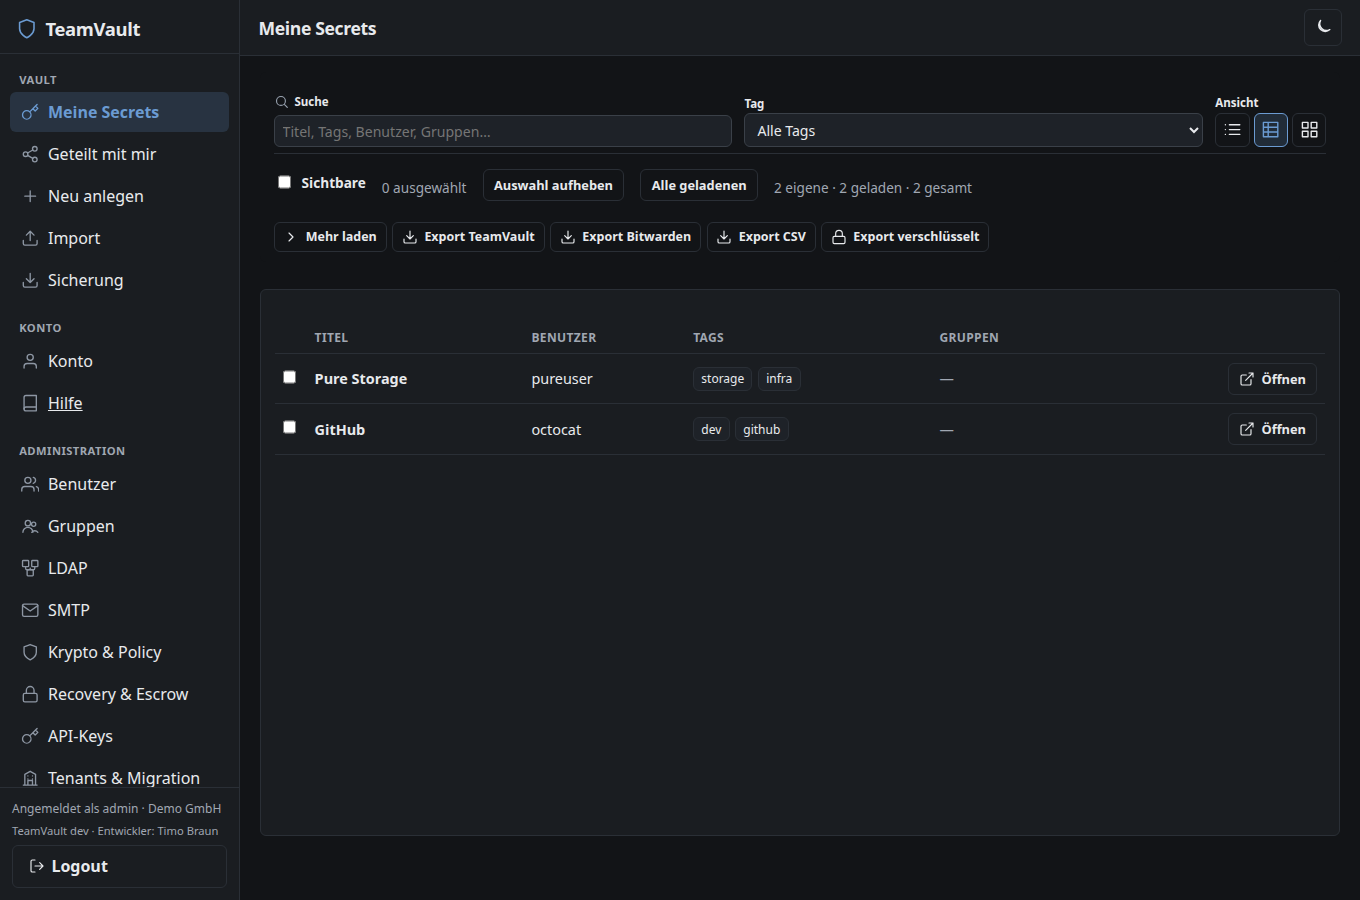
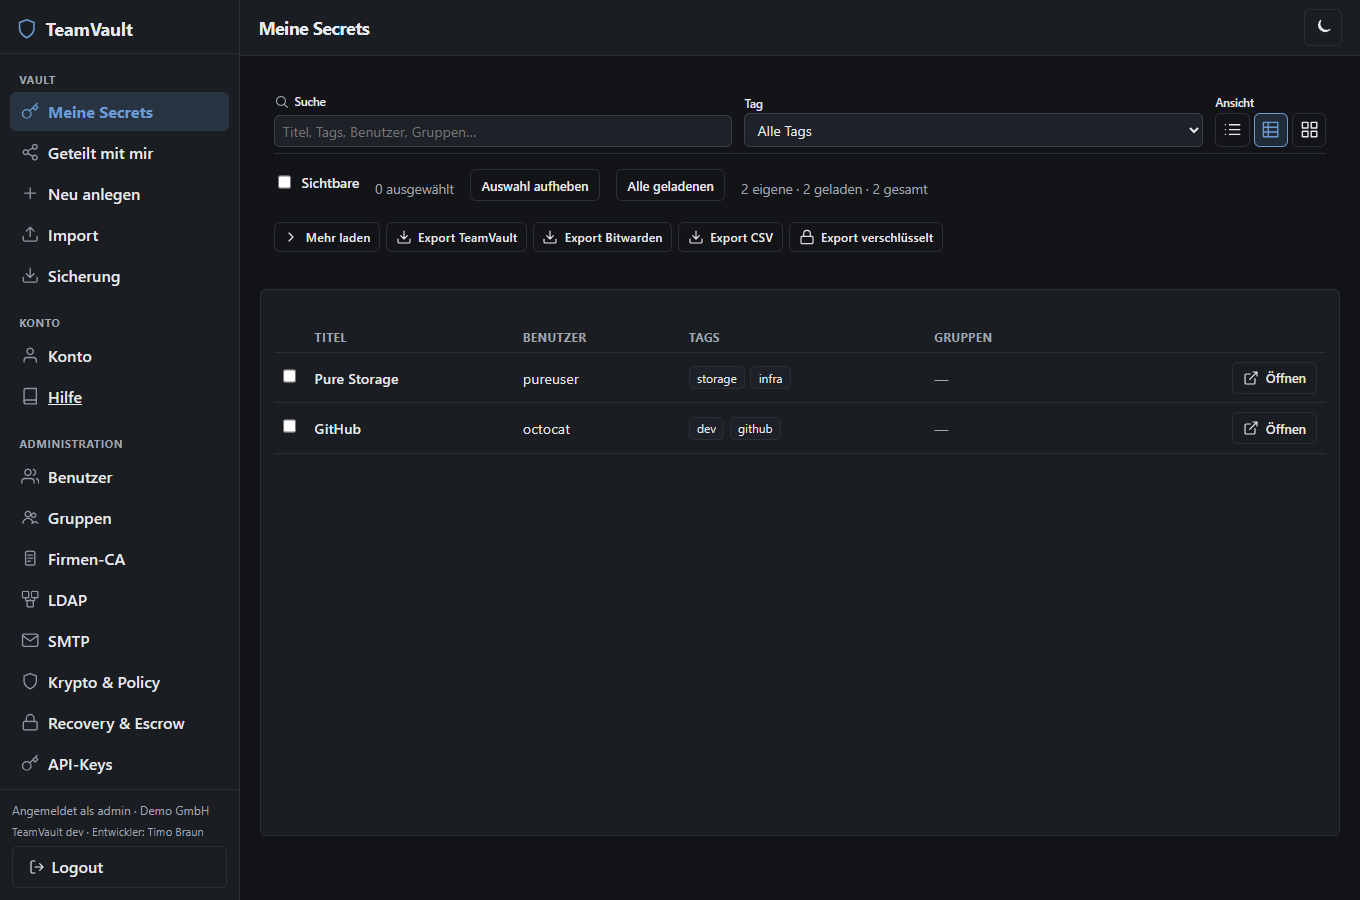
Update admin docs and screenshots for central company CA.
Document Firmen-CA, LDAP TLS, and SMTP in the admin guide and regenerate screenshots including new trust/LDAP/SMTP captures.

diff --git a/docs/admin-guide.md b/docs/admin-guide.md
@@ -154,23 +154,32 @@ Kein Zugriff auf Master-Passwort, Private Keys oder Recovery-Kit-Klartext.
 
 Sidebar **Administration → Firmen-CA**:
 
+![Firmen-CA](images/admin-trust.png)
+
 - Instanzweites Root-/Zwischen-CA-Bundle (PEM), verschlüsselt in der Config
 - Wird für **LDAPS**, **SMTP** und künftige TLS-Clients (interne Dienste) verwendet
 - Behebt `certificate signed by unknown authority` bei eigener PKI, ohne die Prüfung zu deaktivieren
+- PEM-Datei hochladen oder einfügen; **CA speichern** / **Zertifikat entfernen**
 
 ### 3.4 LDAP / AD
 
 Sidebar **Administration → LDAP**:
 
+![LDAP](images/admin-ldap.png)
+
 - Optional, **nur Login-Bind** (nie Autorisierung)
 - Felder: Host, Port, Base DN, Bind DN/Passwort, User-Filter
 - **LDAPS / TLS** (üblich Port 636). Der Hostname muss zum Zertifikat (CN/SAN) passen.
-- TLS-Vertrauen über die zentrale Firmen-CA (nicht hier hochladen)
+- TLS-Vertrauen über die zentrale Firmen-CA (nicht hier hochladen); Hinweis zeigt, ob eine CA hinterlegt ist
 - **TLS-Zertifikatsfehler ignorieren:** unsichere Notlösung, wenn keine CA hinterlegt werden kann (Hostname und Signatur werden nicht geprüft).
 - Test-Bind (nutzt die aktuellen Formularwerte, auch ungespeicherte), Speichern, LDAP-Sync (fehlende → lokal disabled)
 - Just-in-Time: erster erfolgreicher LDAP-Login legt lokalen User an (`auth_backend=ldap`)
 
 ### 3.5 SMTP
+
+Sidebar **Administration → SMTP**:
+
+![SMTP](images/admin-smtp.png)
 
 - Outbound-Mail (Einladungen/Hinweise je nach Ausbau)
 - Host, Port, From, Credentials; Test-Button
@@ -214,7 +223,7 @@ Der private Escrow-Key darf nie in Logs oder dauerhaft auf dem Server landen.
 
 - Cookie-Sessions ohne Scope-Einschränkung. **Legacy-Keys ohne Scopes** (`legacy_no_scopes` in der Key-Liste): nur **read-only** GET-Allowlist — keine Schreib- oder Admin-Aktionen. Key mit expliziten Scopes neu ausstellen und alten Key widerrufen.
 - Nach User-Disable: Secrets mit Envelope dieses Users rotieren (Hinweis + Liste `accessible-secrets` in Admin-UI; kein Auto-Rotate wegen ZK)
-- Tenant-Admins sehen standardmäßig in der Secret-Liste **Metadaten** (IDs, Title-Ciphertext) auch ohne eigenen Envelope — optional einschränkbar über Policy (siehe §3.5)
+- Tenant-Admins sehen standardmäßig in der Secret-Liste **Metadaten** (IDs, Title-Ciphertext) auch ohne eigenen Envelope — optional einschränkbar über Policy (siehe §3.6)
 
 ### 3.9 Tenants, Storage-Migration & Instanz-Backup (`platform_admin`)
 
@@ -336,3 +345,5 @@ Dokumentations-Screenshots liegen unter `docs/images/`. Neu erzeugen (Playwright
 ```
 
 Voraussetzungen: Docker, Node.js/npm. Das Skript startet temporär `go run ./cmd/teamvault` in einem Container auf Port **8099**, führt Setup/Login/Onboarding durch und überschreibt die PNGs in `docs/images/`.
+
+Ohne Docker (Windows): Dev-Server lokal auf `:8099` starten, dann `TV_URL=http://127.0.0.1:8099 TV_BROWSER_CHANNEL=msedge node scripts/capture-docs-screenshots.mjs` (falls Playwright-Chromium nicht geladen werden kann, z. B. hinter Firmenproxy).

diff --git a/README.md b/README.md
@@ -13,7 +13,7 @@ Secrets und Titel werden nur im Browser entschlüsselt — Server und Storage se
 | **Sharing** | Pro berechtigtem User eigener Datenschlüssel (asymmetrisch); Entzug mit Pflicht-Rotation |
 | **Auth** | Lokales Login immer; optional LDAP/AD nur für Bind; TOTP; Passkeys (nur Login); Self-Service Passwort-Wechsel |
 | **Onboarding** | Erzwungenes Master-Passwort + Schlüsselpaar; Recovery-Kit oder Admin-Escrow (Shamir) |
-| **Admin** | User/Gruppen, LDAP, SMTP, Krypto/Policy, Audit, API-Keys (`read`/`vault`/`admin`), Tenants, Storage-Migration, Instanz-Backup/Restore |
+| **Admin** | User/Gruppen, Firmen-CA, LDAP, SMTP, Krypto/Policy, Audit, API-Keys (`read`/`vault`/`admin`), Tenants, Storage-Migration, Instanz-Backup/Restore |
 | **Clients** | Web-UI, CLI (`tvcli`), Browser-Extension (Chrome/Edge/Firefox; Fill/Copy mit Host-Gate) |
 
 ![Vault mit Sidebar und Secrets](docs/images/vault-secrets.png)

diff --git a/docs/phase6-security-self-check.md b/docs/phase6-security-self-check.md
@@ -3,6 +3,7 @@
 | # | Check | Status |
 |---|--------|--------|
 | Config | LDAP/SMTP-Secrets nur in sealed Config; API redaktiert Passwörter (`***`) | OK |
+| Trust | Instanzweite Firmen-CA (`/api/admin/trust`); LDAP/SMTP nutzen Bundle; Skip-Verify nur LDAP-Notfall | OK |
 | 6 LDAP | Test-Bind = Service-Bind only; keine Autorisierung über LDAP | OK |
 | Escrow | Private Escrow-Key nur clientseitig erzeugt; Server speichert Public Key | OK |
 | Audit | Append-only Events; Export ohne Secret-Klartext | OK |

diff --git a/docs/planning/admin-ui-scope.md b/docs/planning/admin-ui-scope.md
@@ -157,8 +157,9 @@ Admin
 ├── Tenants
 ├── Benutzer
 ├── Gruppen
+├── Firmen-CA
 ├── LDAP
-├── E-Mail
+├── SMTP
 ├── Storage
 ├── Krypto & Recovery
 ├── Audit
